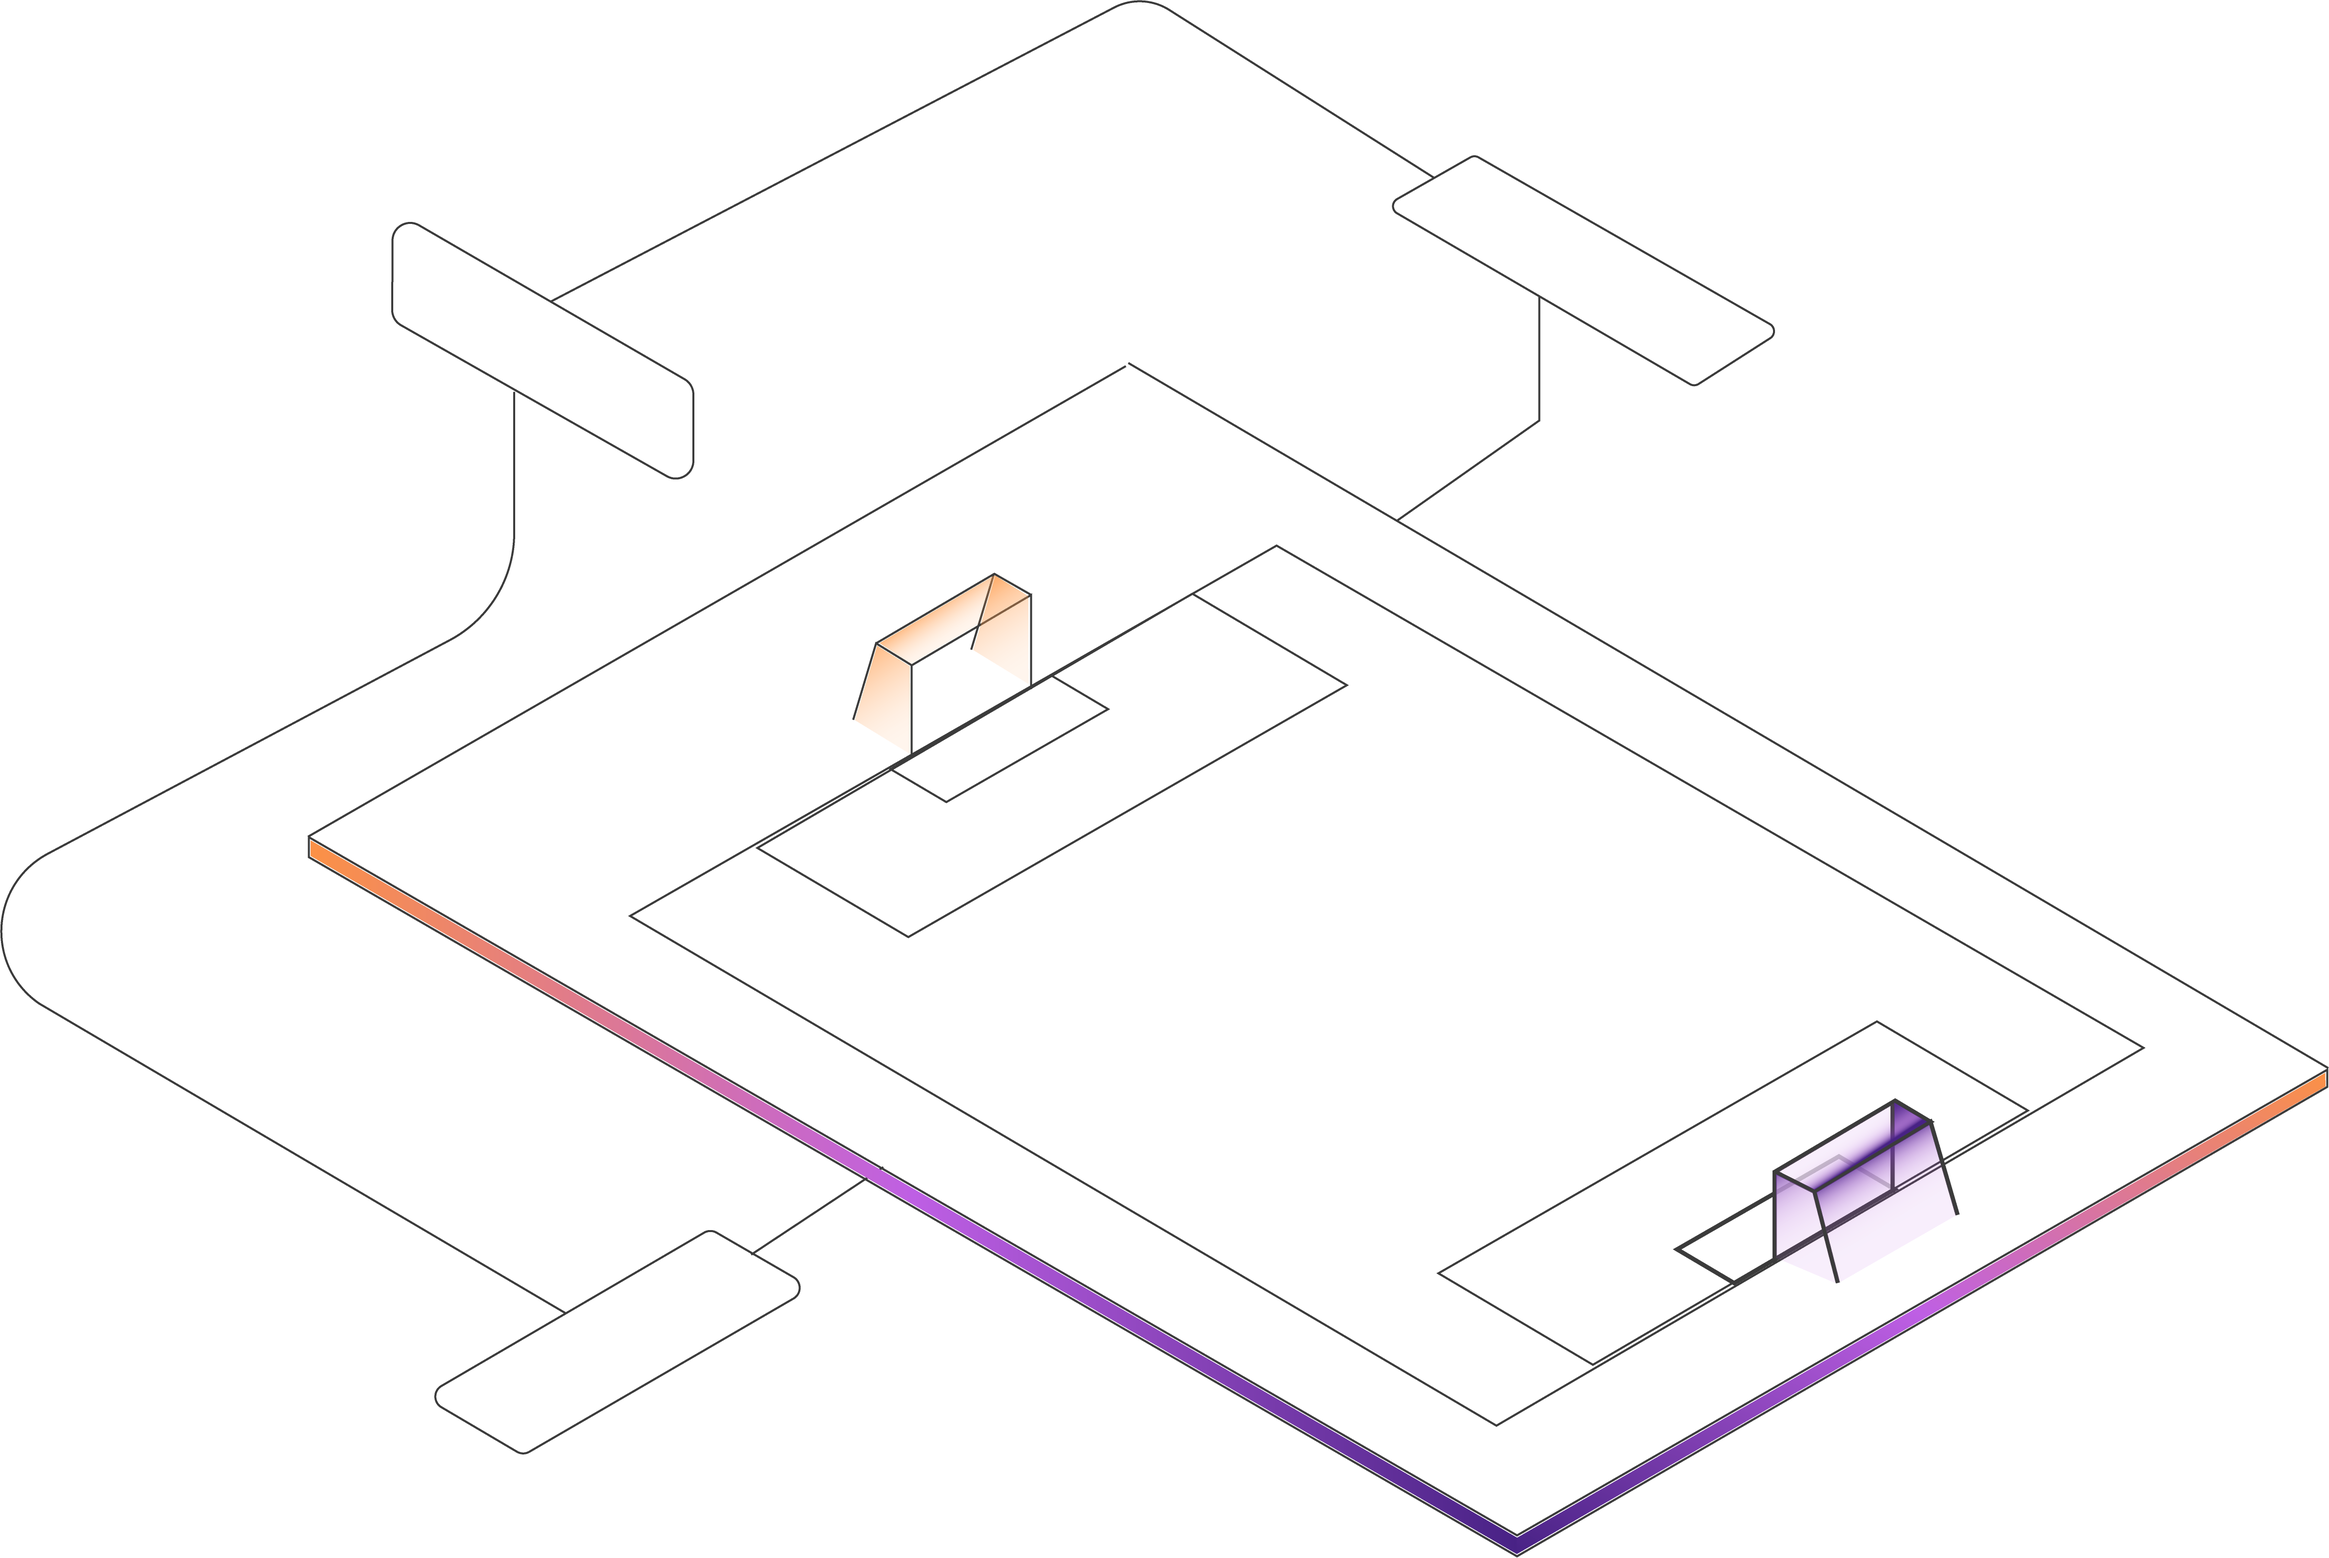
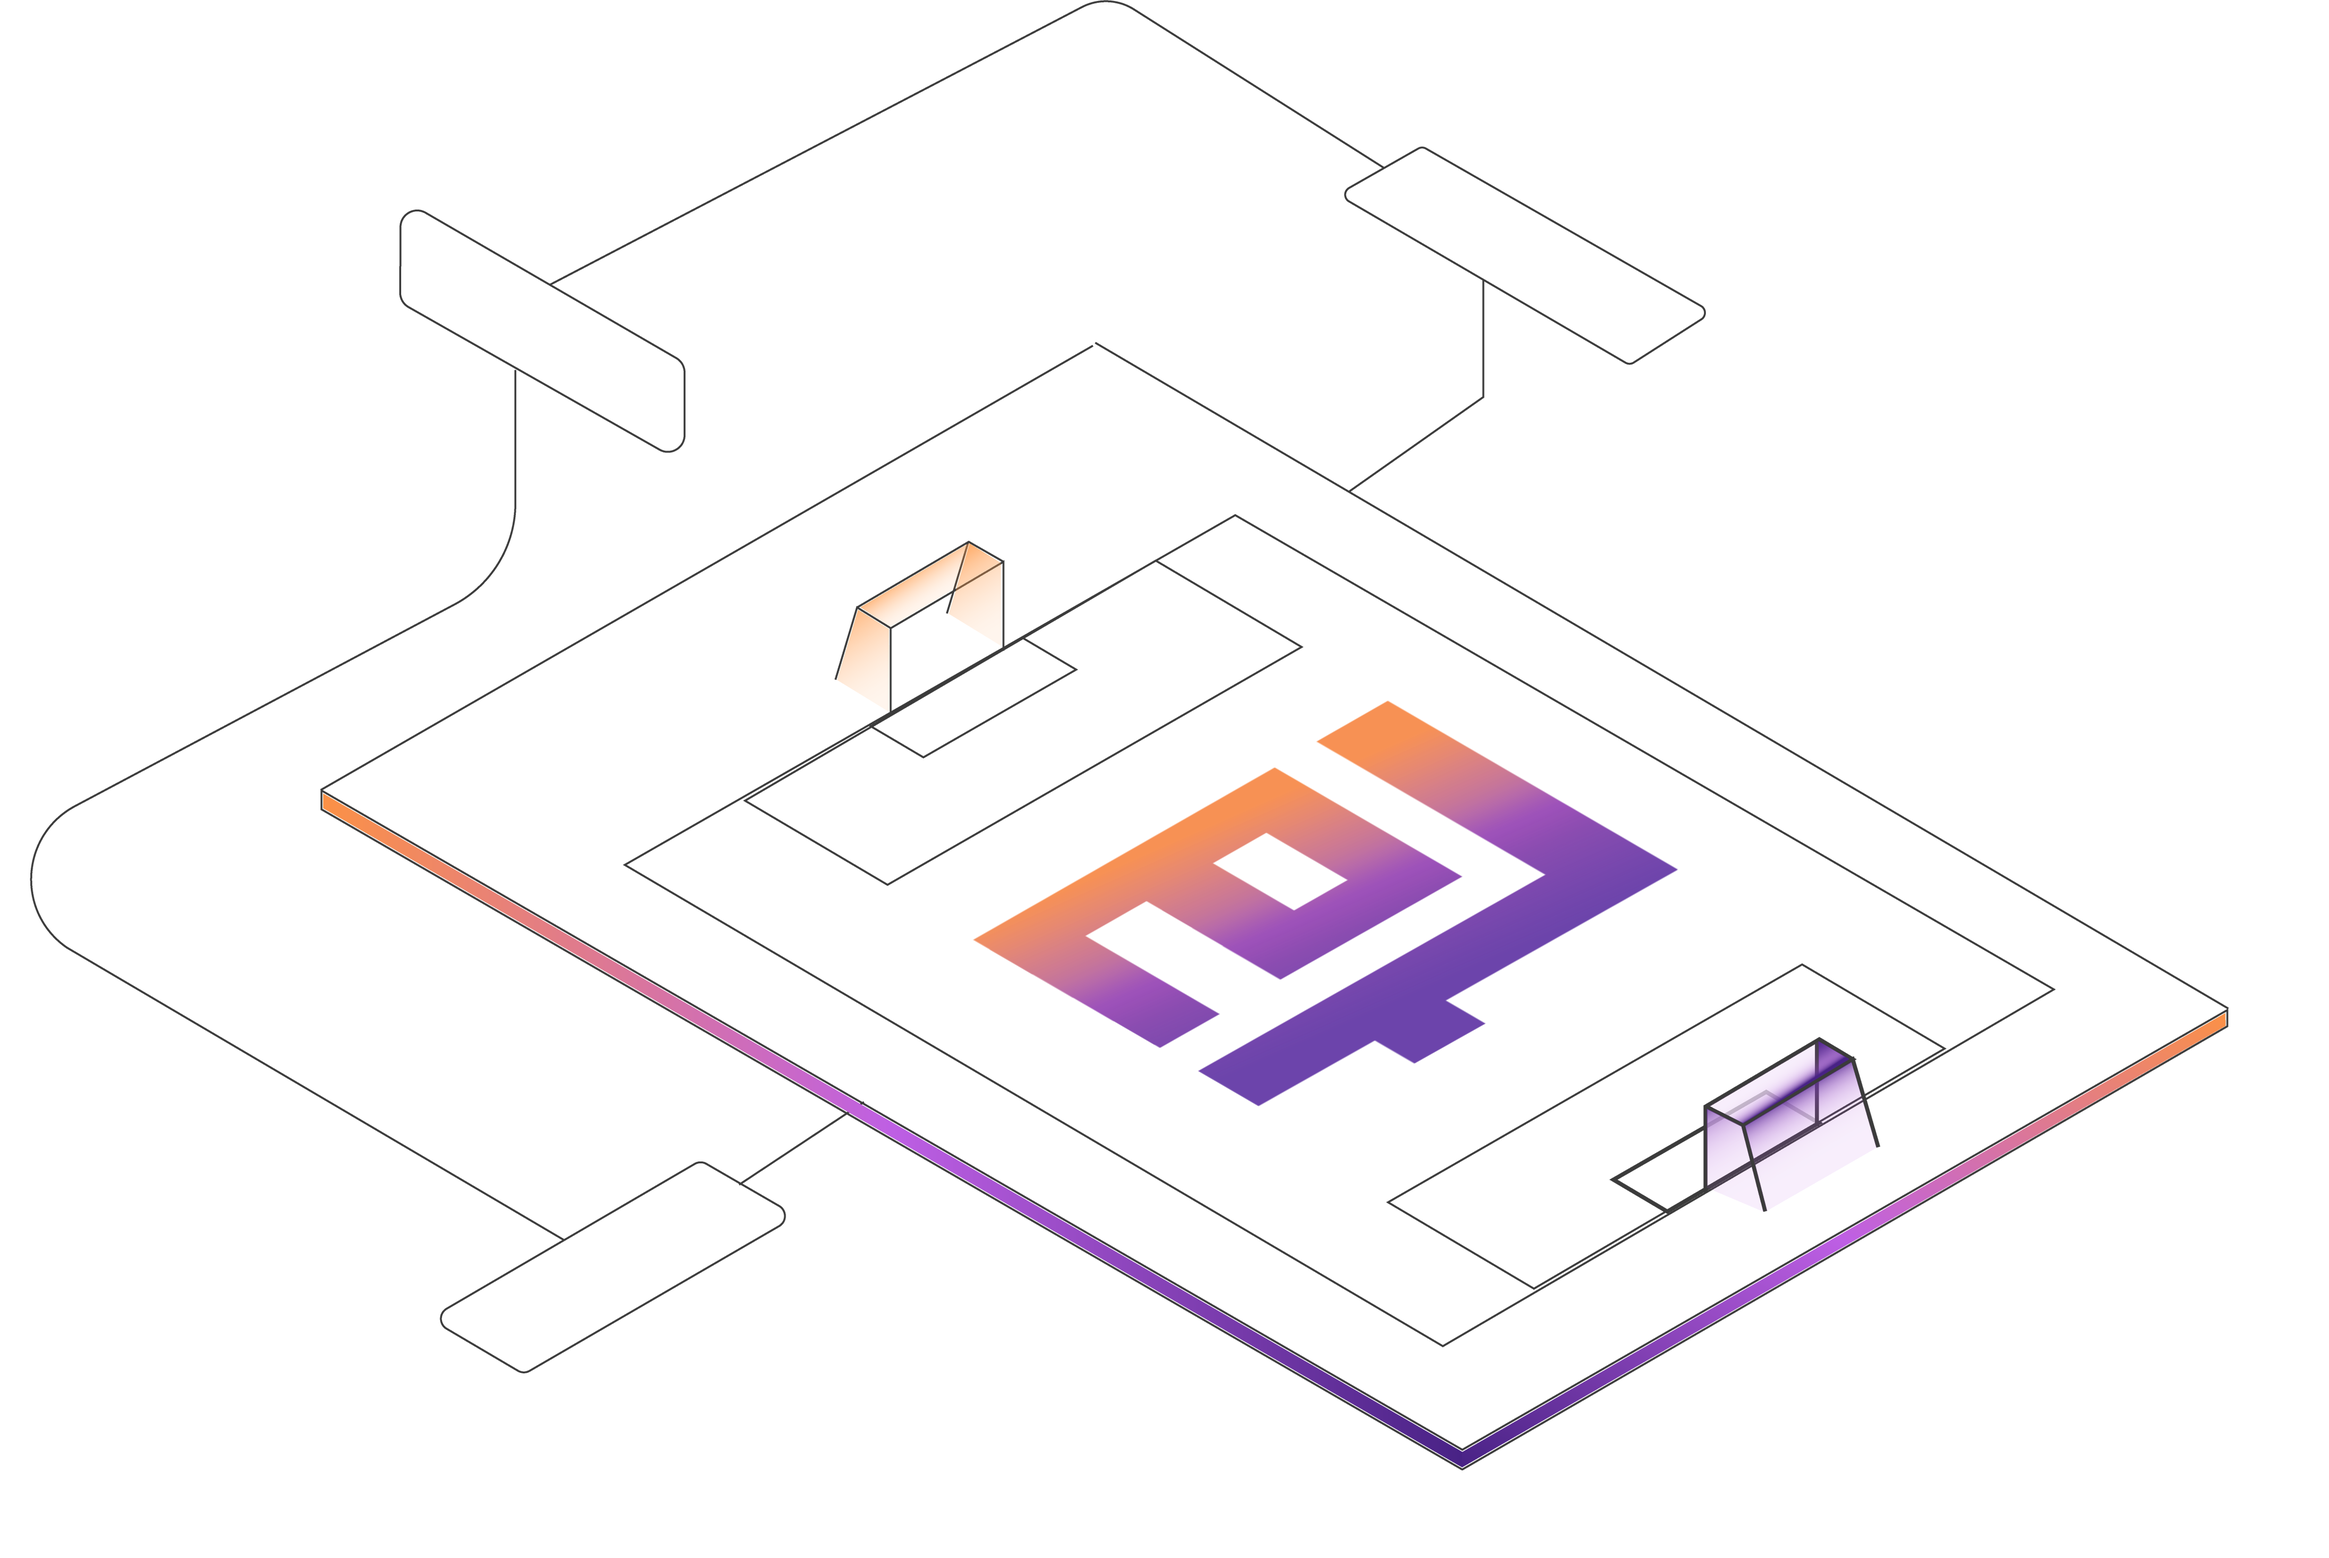
hero section

diff --git a/app/_components/Buttons/Buttons.tsx b/app/_components/Buttons/Buttons.tsx
@@ -1,0 +1,36 @@
+import React from "react";
+
+type ButtonProps = {
+  variant?: "joinUs" | "learnMore";
+  children: React.ReactNode;
+  onClick?: () => void;
+  disabled?: boolean;
+  className?: string;
+};
+
+const Button: React.FC<ButtonProps> = ({
+  variant = "joinUs",
+  children,
+  onClick,
+  disabled = false,
+  className,
+}) => {
+  const baseStyles = "py-2 px-4 rounded font-medium";
+
+  const variantStyles = {
+    joinUs:
+      "w-52 h-16 py-5 bg-white border-2 border-transparent rounded-2xl justify-center items-center gap-2.5 inline-flex text-BgColor font-semibold text-lg hover:text-white hover:border-white transition duration-500 hover:bg-transparent",
+    learnMore:
+      "w-52 h-16  py-5 rounded-2xl border-2 border-white justify-center items-center gap-2.5 inline-flex text-white hover:bg-white hover:text-BgColor transition duration-500",
+  };
+
+  const combinedStyles = `${baseStyles} ${variantStyles[variant]} ${className}`;
+
+  return (
+    <button className={combinedStyles} onClick={onClick} disabled={disabled}>
+      {children}
+    </button>
+  );
+};
+
+export default Button;

diff --git a/app/_components/Hero/HeroTitle.tsx b/app/_components/Hero/HeroTitle.tsx
@@ -1,0 +1,34 @@
+import React from "react";
+import Button from "../Buttons/Buttons";
+
+const HeroTitle = () => {
+  return (
+    <div className="relative z-10 w-1/2 flex flex-col justify-center  pt-40">
+      <h1 className="text-8xl font-bold leading-tight mb-4 text-TitleColor">
+        Pass With
+        <br />
+        Precision, Make
+        <br />
+        The Right Decision
+      </h1>
+      <p className="text-lg mb-8 text-zinc-400 font-light">
+        Where every play matters, and every player shines.
+        <br />
+        Welcome to eField.
+      </p>
+      <div className="flex space-x-4">
+        <Button
+          variant="joinUs"
+          onClick={() => alert("Maak de video van after effect af")}
+        >
+          Join us!
+        </Button>
+        <Button variant="learnMore" onClick={() => alert("ali homo")}>
+          Learn more &rarr;
+        </Button>
+      </div>
+    </div>
+  );
+};
+
+export default HeroTitle;

diff --git a/app/_components/Navbar/Hamburger.tsx b/app/_components/Navbar/Hamburger.tsx
@@ -37,7 +37,6 @@ interface HamburgerMenuLinkProps {
   href: string;
 }
 
-// Styles
 const style = {
   nav: `block pl-0 mb-0`,
   navbar: `font-light py-2 px-4`,
@@ -48,7 +47,6 @@ const style = {
   overlay: `fixed inset-0 bg-black transition-opacity duration-700 z-10`,
 };
 
-// Components
 const HamburgerMenu: FC<HamburgerMenuProps> = ({
   children,
   bgColor,
@@ -140,14 +138,12 @@ export const HamburgerMenuPage: FC = () => {
 
   return (
     <>
-      {/* Overlay */}
       <div
         className={`${style.overlay} ${
           open ? "opacity-80 visible" : "opacity-0 invisible"
         }`}
       ></div>
 
-      {/* Hamburger Menu */}
       <HamburgerMenu bgColor="bg-transparent" textColor="text-white">
         <div className="flex justify-between items-center z-30">
           <HamburgerMenuBrand href="#">

diff --git a/app/_components/Hero/HeroImage.tsx b/app/_components/Hero/HeroImage.tsx
@@ -1,0 +1,20 @@
+import React from "react";
+import Image from "next/image";
+const HeroImage = () => {
+  return (
+    <div className="absolute inset-0 flex justify-end items-center -z-30">
+      <div className="relative w-3/4 h-[110%] transform translate-x-20 translate-y-20">
+        {" "}
+        {/* Set height to 120% */}
+        <Image
+          src="/HomeBg.png"
+          alt="Background image for the home page"
+          layout="fill"
+          objectFit="contain"
+        />
+      </div>
+    </div>
+  );
+};
+
+export default HeroImage;

diff --git a/app/_components/Hero/Hero.tsx b/app/_components/Hero/Hero.tsx
@@ -1,0 +1,16 @@
+"use client";
+
+import React from "react";
+import HeroTitle from "./HeroTitle";
+import HeroImage from "./HeroImage";
+
+const Hero = () => {
+  return (
+    <div className="relative w-full h-[800px] p-10 bg-transparent">
+      <HeroTitle></HeroTitle>
+      <HeroImage></HeroImage>
+    </div>
+  );
+};
+
+export default Hero;

diff --git a/app/layout.tsx b/app/layout.tsx
@@ -33,7 +33,9 @@ export default function RootLayout({
 }>) {
   return (
     <html lang="en">
-      <body className={`${inter.className} bg-BgColor`}>{children}</body>
+      <body className={`${inter.className} bg-BgColor overflow-x-hidden`}>
+        {children}
+      </body>
     </html>
   );
 }

diff --git a/app/page.tsx b/app/page.tsx
@@ -1,10 +1,12 @@
 import Image from "next/image";
 import Navbar from "./_components/Navbar/Navbar";
+import Hero from "./_components/Hero/Hero";
 export default function Home() {
   return (
     <div>
       <div>
         <Navbar></Navbar>
+        <Hero></Hero>
       </div>
     </div>
   );

diff --git a/tailwind.config.ts b/tailwind.config.ts
@@ -16,6 +16,7 @@ const config: Config = {
       colors: {
         BgColor: "#101010",
         NavColor: "#161616",
+        TitleColor: "#d9d9d9",
       },
     },
   },
